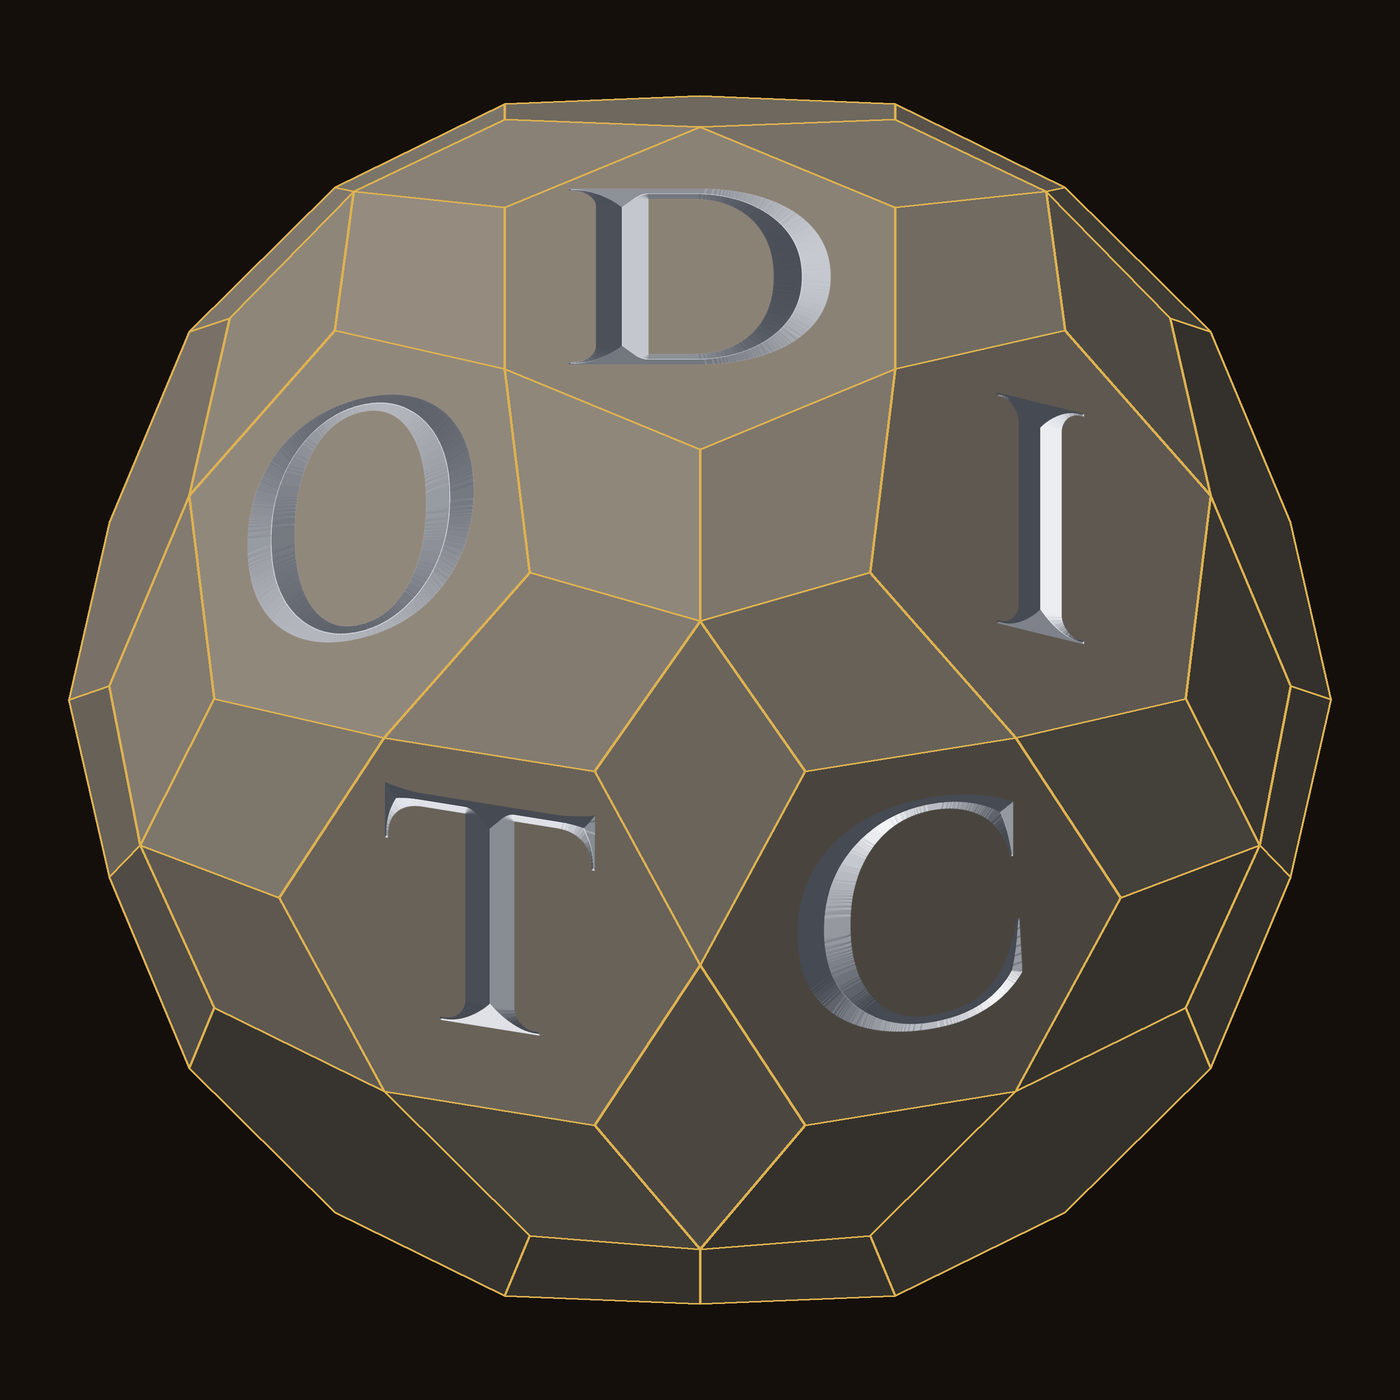
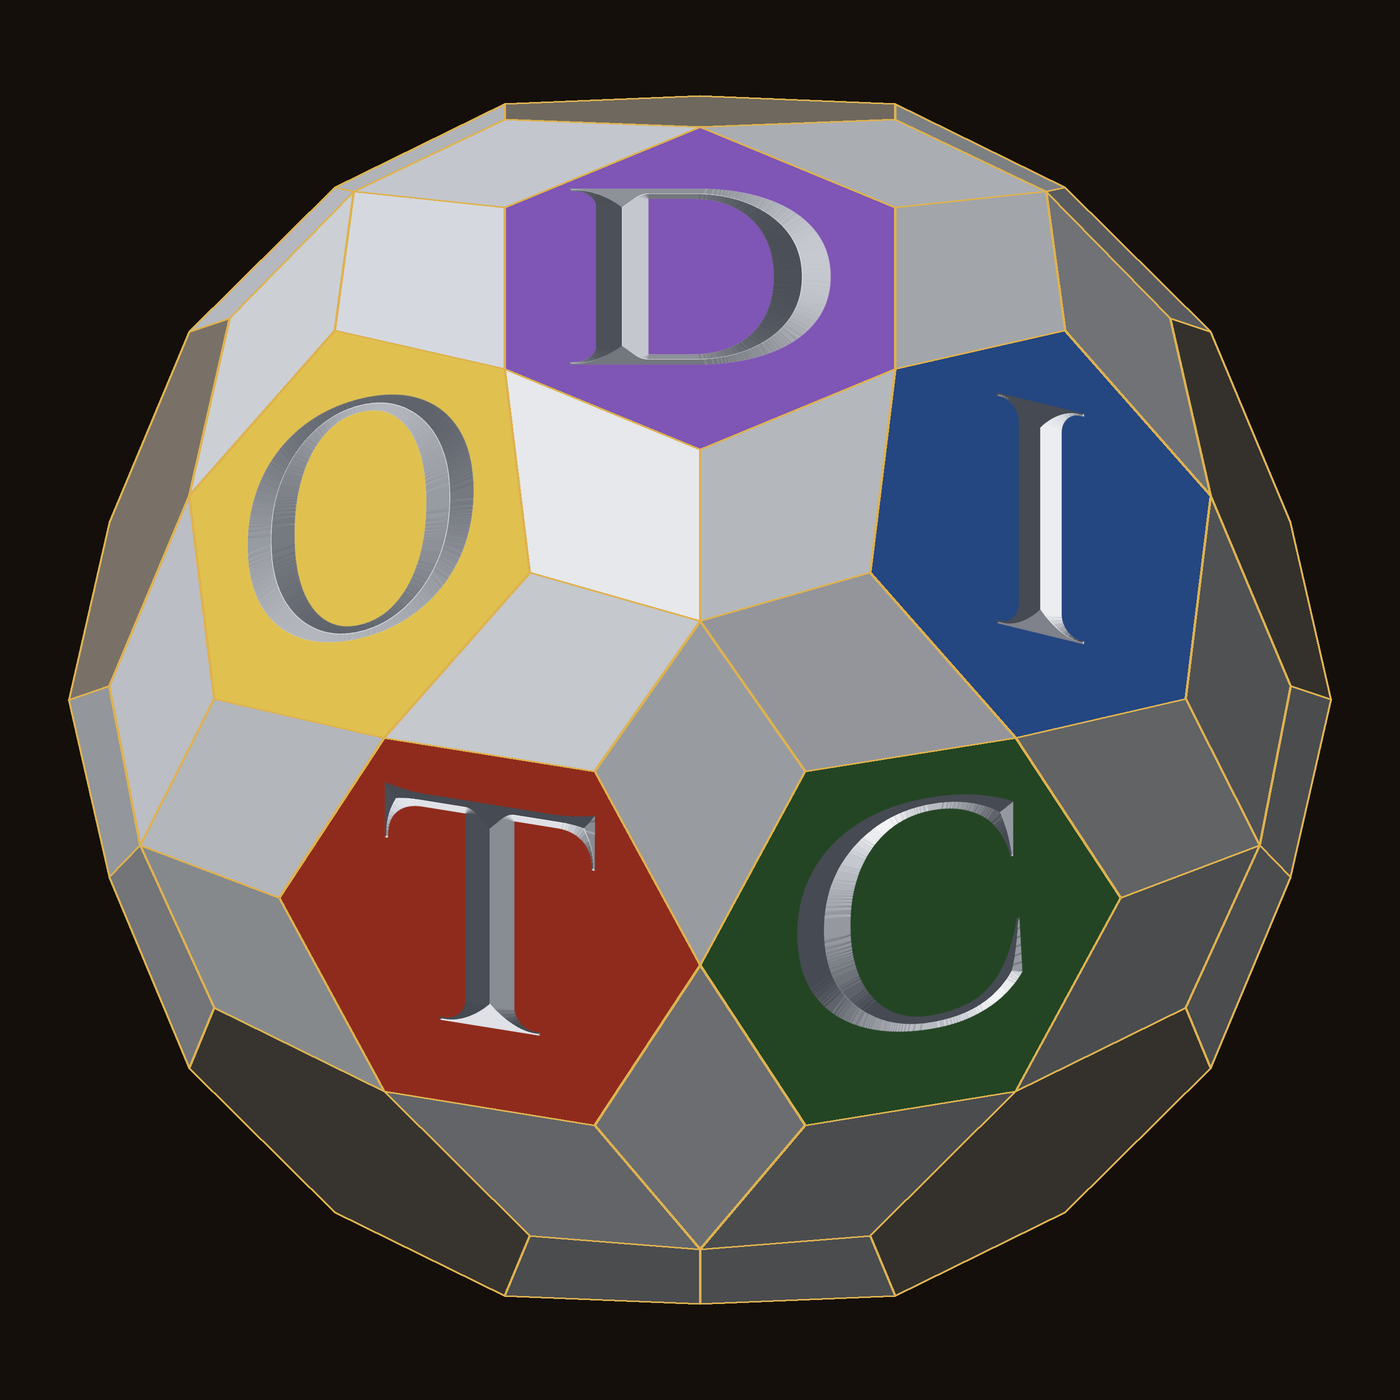
OG letters: lettered hexagons in element colours, kite stars in platinum (DICTO); stone version kept

diff --git a/studies/2026-10-22-dicto-square/og_letters.py b/studies/2026-10-22-dicto-square/og_letters.py
@@ -32,7 +32,10 @@ V=V@TILT.T
 ring_c={tuple(f):V[f].mean(0) for f in ring}
 order=sorted(ring,key=lambda f:(math.atan2(ring_c[tuple(f)][0],ring_c[tuple(f)][1])+0.6)%(2*math.pi))   # clockwise from the top
 LET={tuple(f):ch for f,ch in zip(order,'DICTO')}
-GROUND=(20,15,11); GOLD=(222,178,80); STONE=(150,141,128)
+GROUND=(20,15,11); GOLD=(222,178,80); STONE=(150,141,128); PLAT=(214,218,224)
+import os as _os
+TINT=_os.environ.get('TINT','1')=='1'   # DICTO: each lettered hexagon in its element colour, the kite stars in platinum
+ELEM={'T':(205,62,40),'O':(232,200,82),'I':(58,112,205),'C':(72,142,72),'D':(138,92,196)}
 light=np.array([-0.45,0.55,0.7]); light/=np.linalg.norm(light)
 FONT=os.path.join(here,'Cinzel.ttf')
 def carve_tile(ch,px):
@@ -48,7 +51,13 @@ def render(img,cx,cy,rad,SS=2):
         n=np.cross(V[f[1]]-V[f[0]],V[f[2]]-V[f[0]]); n/=np.linalg.norm(n)
         if n@V[f].mean(0)<0: n=-n
         if n[2]<=1e-9: continue
-        b=0.35+0.65*max(0,n@light); col=tuple(int(c*b) for c in STONE)
+        base=STONE
+        if TINT and tuple(f) in LET: base=ELEM[LET[tuple(f)]]
+        elif TINT and len(f)==4: base=PLAT
+        b=0.35+0.65*max(0,n@light); col=tuple(int(c*b) for c in base)
+        if TINT and len(f)==4:   # platinum: a soft sheen towards the light
+            hv=light+np.array([0,0,1.0]); sp=max(0,n@(hv/np.linalg.norm(hv)))**30
+            col=tuple(int(c+(255-c)*0.6*sp) for c in col)
         pts=[P(V[q]) for q in f]; d.polygon(pts,fill=col); d.line(pts+[pts[0]],fill=GOLD,width=2*SS)
         if tuple(f) in LET:
             # facet frame: U to the right on screen, Vv up on screen, both in the facet's plane
@@ -75,4 +84,4 @@ def render(img,cx,cy,rad,SS=2):
             img.paste(t2,box[:2],m2)
 if __name__=='__main__':
     N=1400; SS=2; W=N*SS; img=Image.new('RGB',(W,W),GROUND)
-    render(img,W/2,W/2,0.46*W,SS); img.resize((N,N),Image.LANCZOS).save(os.path.join(here,'og-letters.png')); print('ok')
+    render(img,W/2,W/2,0.46*W,SS); img.resize((N,N),Image.LANCZOS).save(os.path.join(here,'og-letters%s.png'%('' if TINT else '-stone'))); print('ok')

diff --git a/studies/2026-10-22-dicto-square/README.md b/studies/2026-10-22-dicto-square/README.md
@@ -11,3 +11,4 @@ emblem_forms.py -> dicto-emblem-forms.png; STAR=1 -> dicto-emblem-forms-star.png
 
 ## OG with carved letters (DICTO 2026-10-22)
 og_letters.py -> og-letters.png: the DICTO Ogdoecontahedron along a five-fold axis (as Figure 1(c) of #31; geometry og-geometry.json = papers/ogdoecontahedron/data/hstar-render.json), no colours: stone facets, gold edges; D-I-C-T-O V-cut in platinum leaf into the five hexagons round the centre, clockwise from the top as in the emblem, carved in each facet's own plane so the letters foreshorten.
+Colour version (default, DICTO): each lettered hexagon in its element colour, the kites (stars of five) in platinum; TINT=0 -> og-letters-stone.png, the plain stone version.
